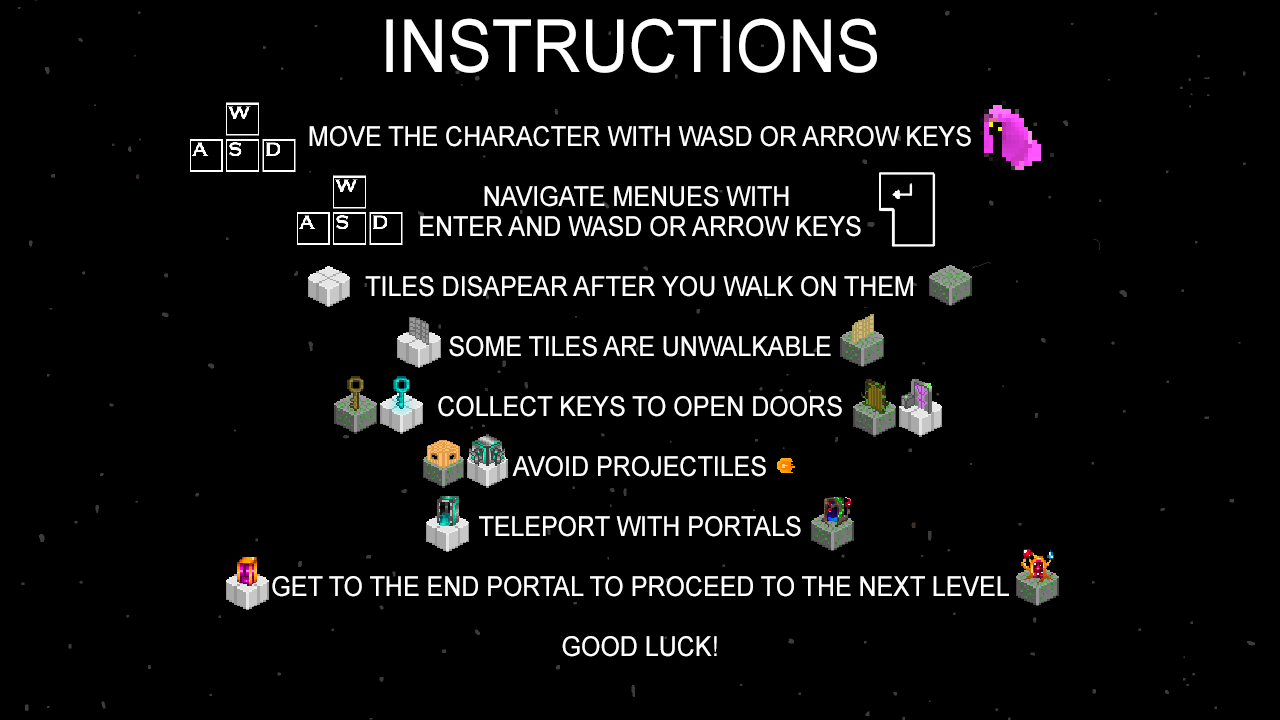
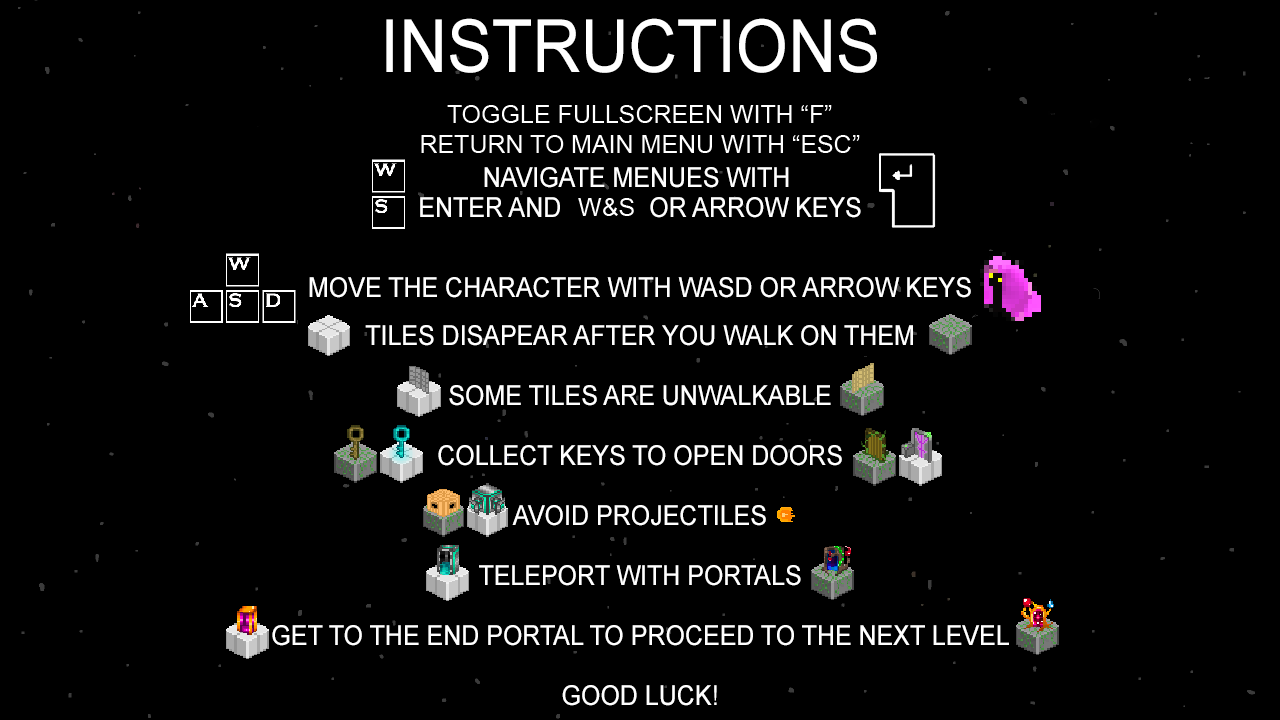
Return to menu with ESC and toggle fullscreen with F. Update instructions to reflect changes

Changed region(s): [[0.1562, 0.1222, 0.8438, 0.9167], [0.4375, 0.9472, 0.5625, 0.9778], [0.1562, 0.3361, 0.2188, 0.3667]]

diff --git a/GameJam2020_2D/GameJam2020_2D/Game1.cs b/GameJam2020_2D/GameJam2020_2D/Game1.cs
@@ -91,7 +91,19 @@ namespace GameJam2020_2D
         {
             // Allows the game to exit
             if (GamePad.GetState(PlayerIndex.One).Buttons.Back == ButtonState.Pressed || Keyboard.GetState().IsKeyDown(Keys.Escape))
-                this.Exit();
+            {
+                menuManager.ChangePage(MenuManager.MenuState.Main);
+                menuManager.gameStates = GameStates.Menu;
+                inGame.player.lifes = 6;
+                inGame.player.playerAlive = true;
+                inGame.player.ResetGame();
+             }
+            // Toggle fullscreen when pressing F
+            if (Keyboard.GetState().IsKeyDown(Keys.F))
+            {
+                graphics.IsFullScreen = !graphics.IsFullScreen;
+                graphics.ApplyChanges();
+            }
 
             switch (menuManager.gameStates)
             {
